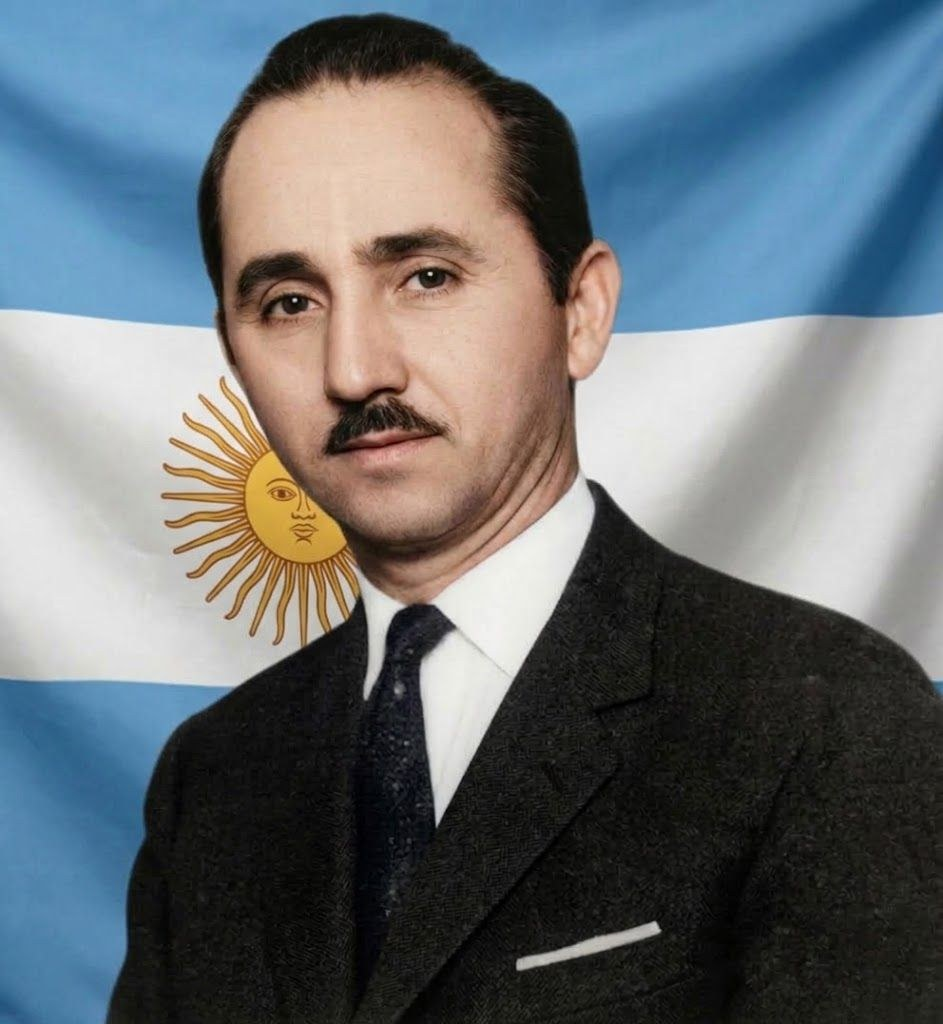
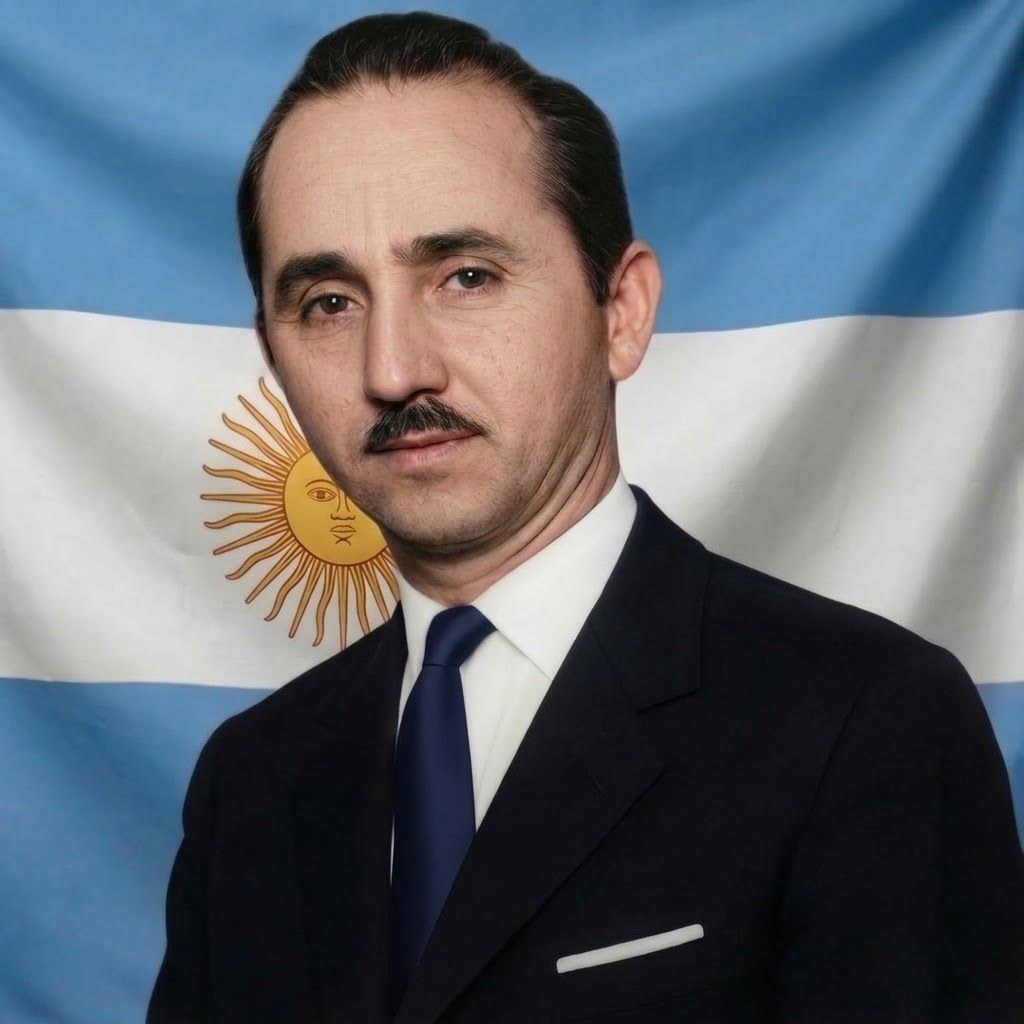
Nueva version de la foto de Ramon Arias
Reemplaza las cuatro versiones con la foto cuadrada de 1024 px y el
encuadre de miniatura elegido en el Cargador.

Claude-Session: https://claude.ai/code/session_011Yt3yu2zja32qH7Yz6kk4H

diff --git a/index.html b/index.html
@@ -1534,7 +1534,7 @@ intro.addEventListener("click",cerrarIntro);
 document.addEventListener("keydown",function(e){ if(e.key==="Escape") cerrarIntro(); });
 
 // sube de número en cada cambio: si el navegador muestra uno viejo, quedó cacheado
-const VERSION="v1.41";
+const VERSION="v1.42";
 console.log("%cVíctimas del terrorismo · "+VERSION,
             "font-size:14px;font-weight:bold;color:#e8e0d4;background:#241d16;padding:3px 8px;border-radius:3px");
 
